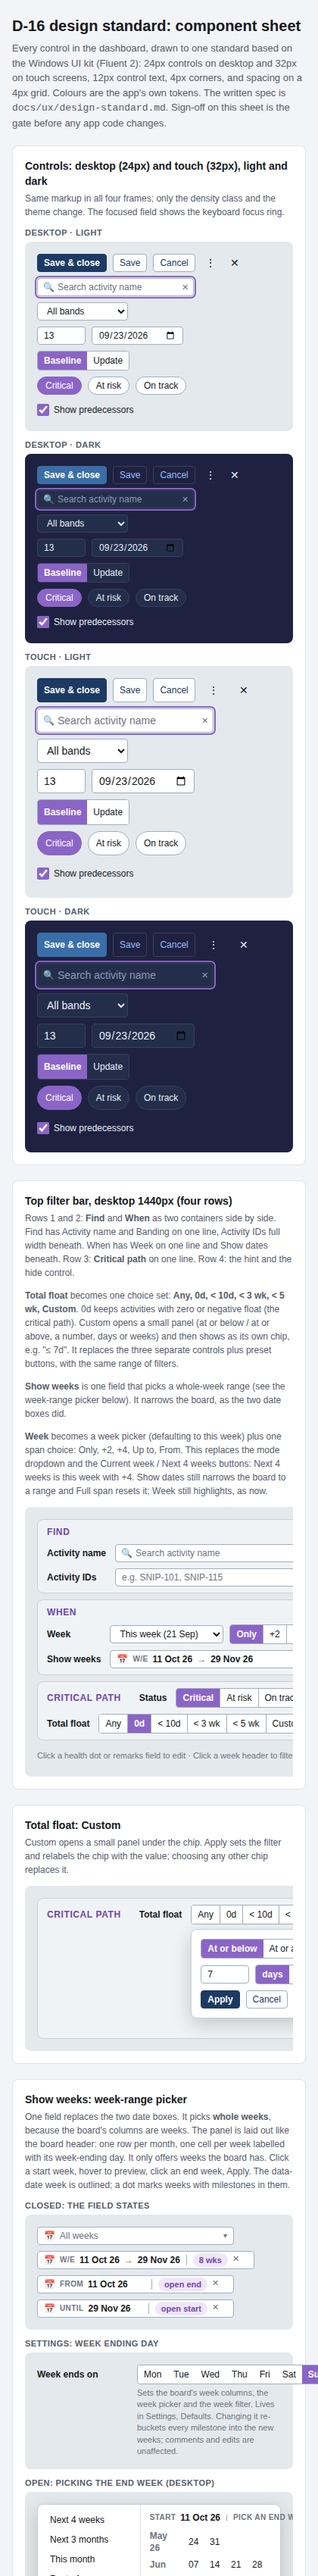
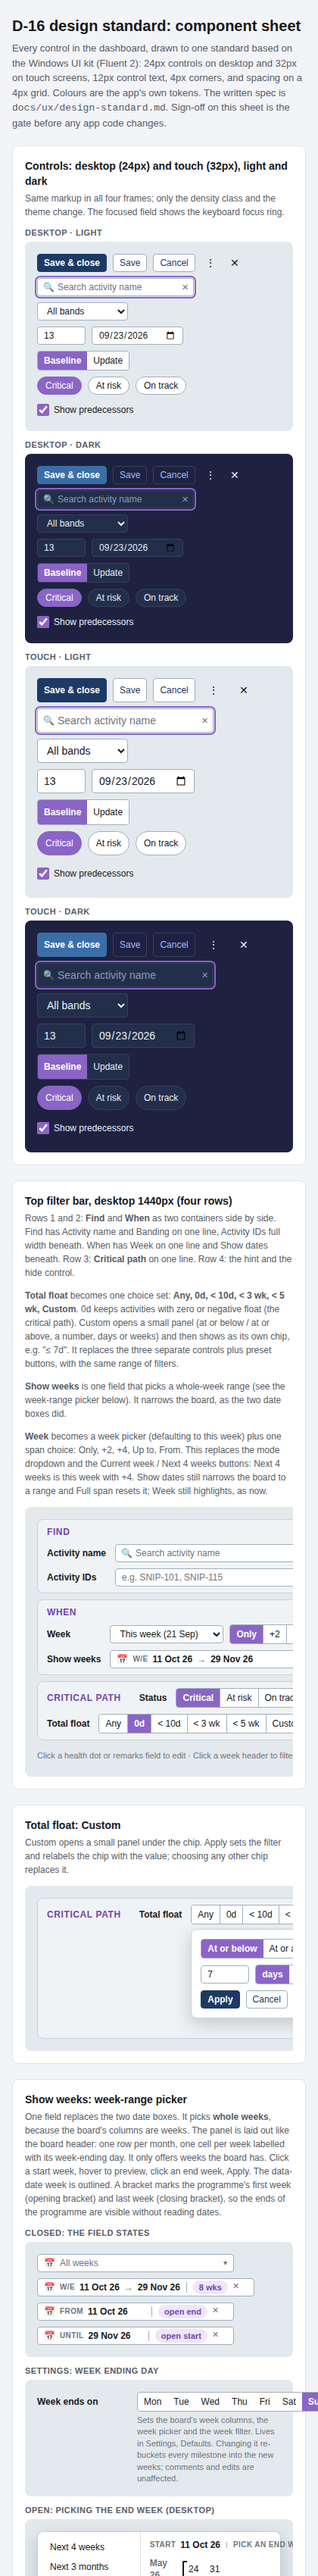
D-16a rev 6: week picker drops milestone dots, adds programme start/end brackets
Claude-Session: https://claude.ai/code/session_01VvvMafGZ9E3v4dsCotnPSK

Changed region(s): [[0.0619, 0.8418, 1.0, 1.0]]

diff --git a/Projects/P6-Milestone-Dashboard/docs/mockups/D-16/component_sheet.html b/Projects/P6-Milestone-Dashboard/docs/mockups/D-16/component_sheet.html
@@ -122,8 +122,11 @@ body{background:var(--pg-bg);color:var(--pg-ink);font-family:'Segoe UI Variable 
 .wr-wk.end{background:var(--color-accent-purple);color:#fff;font-weight:600;border-radius:var(--radius-ctl)}
 .wr-wk.preview{background:repeating-linear-gradient(135deg,var(--color-accent-tint-bg,#efe6f9) 0 4px,transparent 4px 8px)}
 .wr-wk.dd{box-shadow:inset 0 0 0 1.5px var(--color-accent-ink);border-radius:var(--radius-ctl)}
-.wr-wk .dot{position:absolute;bottom:2px;left:50%;transform:translateX(-50%);width:4px;height:4px;border-radius:50%;background:var(--color-text-muted)}
-.wr-wk.end .dot{background:#fff}
+.wr-wk.ps::before,.wr-wk.pe::after{content:"";position:absolute;top:1px;bottom:1px;width:4px;border:2px solid var(--color-text-primary);pointer-events:none}
+.wr-wk.ps::before{left:-1px;border-right:0;border-radius:2px 0 0 2px}
+.wr-wk.pe::after{right:-1px;border-left:0;border-radius:0 2px 2px 0}
+.wr-legend .brk{display:inline-block;width:10px;height:10px;vertical-align:-1px;margin-right:4px;border:2px solid var(--color-text-primary);border-right-width:0;border-left-width:2px;box-sizing:border-box}
+.wr-legend .brk.e{border-left-width:0;border-right-width:2px;margin-left:-2px}
 .wr-wk.out{color:var(--color-text-muted);opacity:.35;cursor:default}
 .wr-foot button{white-space:nowrap}
 .wr-foot .ds-seg button,.wr-foot .ds-btn{height:auto;min-height:var(--ctl-h);line-height:1.2;padding-block:2px}
@@ -182,7 +185,7 @@ body{background:var(--pg-bg);color:var(--pg-ink);font-family:'Segoe UI Variable 
 
 <section class="pg-sect">
   <h2>Show weeks: week-range picker</h2>
-  <p>One field replaces the two date boxes. It picks <b>whole weeks</b>, because the board's columns are weeks. The panel is laid out like the board header: one row per month, one cell per week labelled with its week-ending day. It only offers weeks the board has. Click a start week, hover to preview, click an end week, Apply. The data-date week is outlined; a dot marks weeks with milestones in them.</p>
+  <p>One field replaces the two date boxes. It picks <b>whole weeks</b>, because the board's columns are weeks. The panel is laid out like the board header: one row per month, one cell per week labelled with its week-ending day. It only offers weeks the board has. Click a start week, hover to preview, click an end week, Apply. The data-date week is outlined. A bracket marks the programme's first week (opening bracket) and last week (closing bracket), so the ends of the programme are visible without reading dates.</p>
   <div class="pg-grid">
     <div><p class="pg-cap">Closed: the field states</p><div class="ds t-light"><div class="wr-states">
       <button class="wr-field empty"><span class="wr-ico" aria-hidden="true">&#128197;</span><span class="wr-txt">All weeks</span><span class="wr-caret">&#9662;</span></button>
@@ -292,7 +295,7 @@ body{background:var(--pg-bg);color:var(--pg-ink);font-family:'Segoe UI Variable 
     var M=['Jan','Feb','Mar','Apr','May','Jun','Jul','Aug','Sep','Oct','Nov','Dec'];
     var d=new Date(2026,4,24), end=new Date(2027,0,10), rows={}, order=[];
     while(d<=end){var k=d.getFullYear()+'-'+d.getMonth(); if(!rows[k]){rows[k]=[];order.push(k);} rows[k].push(new Date(d)); d.setDate(d.getDate()+7);}
-    var s0=new Date(2026,9,11), s1=opt.end, dd=new Date(2026,7,16), busy={'2026-6-5':1,'2026-6-26':1,'2026-7-2':1,'2026-7-30':1,'2026-8-13':1,'2026-9-11':1,'2026-9-25':1,'2026-10-8':1,'2026-10-22':1,'2026-10-29':1,'2026-11-13':1};
+    var s0=new Date(2026,9,11), s1=opt.end, dd=new Date(2026,7,16), pS=new Date(2026,4,24).getTime(), pE=end.getTime();
     var g='';
     order.forEach(function(k){var ws=rows[k],m=ws[0].getMonth(),y=ws[0].getFullYear();
       g+='<span class="wr-mon">'+M[m]+(m===0||k===order[0]?' '+String(y).slice(2):'')+'</span>';
@@ -302,14 +305,15 @@ body{background:var(--pg-bg);color:var(--pg-ink);font-family:'Segoe UI Variable 
         else if(t>s0.getTime()&&t<s1.getTime()) c+=opt.done?' in':' preview';
         else if(!opt.done&&t===s1.getTime()) c+=' preview';
         if(t===dd.getTime()) c+=' dd';
-        var key=w.getFullYear()+'-'+w.getMonth()+'-'+w.getDate();
-        g+='<span class="'+c+'" role="button" aria-label="Week ending '+w.getDate()+' '+M[w.getMonth()]+'">'+('0'+w.getDate()).slice(-2)+(busy[key]?'<i class="dot"></i>':'')+'</span>';}
+        if(t===pS) c+=' ps'; if(t===pE) c+=' pe';
+        var lab='Week ending '+w.getDate()+' '+M[w.getMonth()]+(t===pS?', programme start':'')+(t===pE?', programme end':'');
+        g+='<span class="'+c+'" role="button" aria-label="'+lab+'" title="'+lab+'">'+('0'+w.getDate()).slice(-2)+'</span>';}
     });
     var q=['Next 4 weeks','Next 3 months','This month','Rest of programme','Full span'].map(function(x){return '<button aria-pressed="false">'+x+'</button>';}).join('');
     el.innerHTML='<div class="wr-pop"><div class="wr-quick">'+q+'</div><div class="wr-main">'+
       '<div class="wr-head"><span>'+(opt.done?'<span class="wr-val"><span class="wr-tag">W/E</span><b>11 Oct 26</b><span class="wr-arrow">&#8594;</span><b>29 Nov 26</b><span class="wr-div"></span><span class="wr-count">8 wks</span></span>':'<span class="wr-val"><span class="wr-tag">Start</span><b>11 Oct 26</b><span class="wr-div"></span><span class="wr-tag">Pick an end week</span></span>')+'</span></div>'+
       '<div class="wr-grid">'+g+'</div>'+
-      '<div class="wr-legend"><span><i style="background:var(--color-accent-purple)"></i>Start / end</span><span><i style="box-shadow:inset 0 0 0 1.5px var(--color-accent-ink)"></i>Data date</span><span>&#8226; Milestones due</span></div>'+
+      '<div class="wr-legend"><span><i style="background:var(--color-accent-purple)"></i>Selected start / end</span><span><i style="box-shadow:inset 0 0 0 1.5px var(--color-accent-ink)"></i>Data date</span><span><i class="brk"></i><i class="brk e"></i>Programme start / end</span></div>'+
       '<div class="wr-foot"><span class="ds-seg"><button aria-pressed="false" title="Show from the picked week onward">From only</button><button aria-pressed="false" title="Show up to the picked week">Until only</button></span><span style="display:flex;gap:8px"><button class="ds-btn">Clear</button><button class="ds-btn">Cancel</button><button class="ds-btn primary">Apply</button></span></div>'+
       '</div></div>';
   }

diff --git a/Projects/P6-Milestone-Dashboard/docs/ux/design-standard.md b/Projects/P6-Milestone-Dashboard/docs/ux/design-standard.md
@@ -89,7 +89,7 @@ Groups are separated by `--group-gap` and a 1px hairline. There is no empty spac
 ## Dates and weeks
 
 - **Week ending day** is a setting (Settings, Defaults, "Week ends on", a Mon to Sun segmented toggle). The default is Sunday, matching the current board. It drives the board's week columns, the week-range picker and the week filter together. Changing it re-buckets milestones into the new weeks. Comments and edits are unaffected.
-- **The week-range picker snaps to whole weeks.** It lists week-ending dates grouped by month, not a day calendar.
+- **The week-range picker snaps to whole weeks.** It lists week-ending dates grouped by month, not a day calendar. Markers: the selected start and end are accent-filled; the data-date week is outlined; the programme's first and last weeks carry an opening and closing bracket in `--color-text-primary`. No per-week milestone indicator.
 - **Closed-state range text** is structured, never a sentence: a muted uppercase tag (`W/E`, `From`, `Until`), dates in semibold, a muted arrow between them, a 1px divider, then a count pill (`8 wks`, `open end`, `open start`). Quick ranges use programme wording ("Rest of programme").
 - **Overlays stay inside their frame.** A popover is `box-sizing:border-box`, `max-width` bounded, and its grid columns use `minmax(0,…)` so content wraps rather than spills. Footer buttons grow in height rather than letting text cross the button edge.
 
